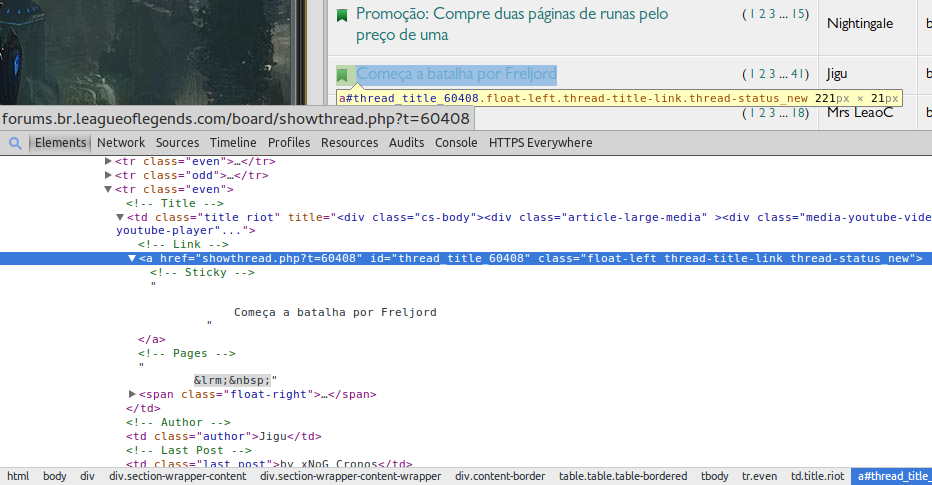
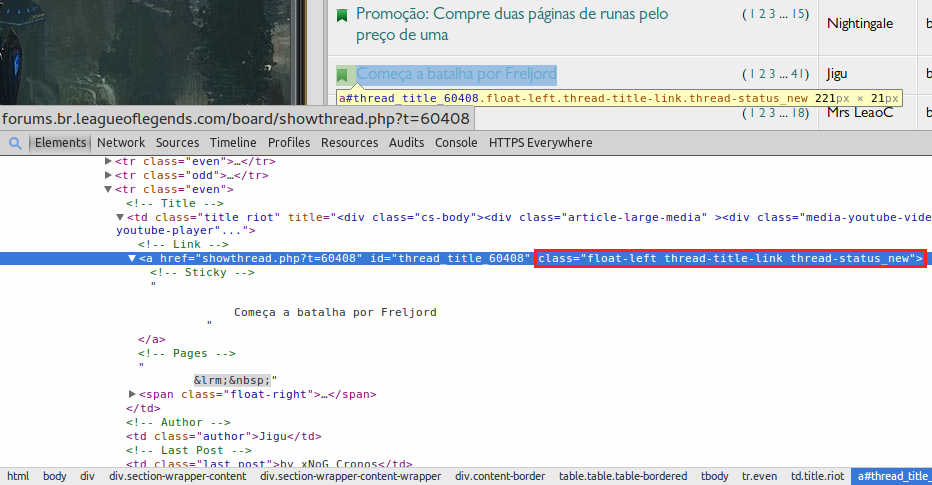
incluídas novas seções

Changed region(s): [[0.5601, 0.4948, 0.9957, 0.5567]]

diff --git a/jsoup/index.html b/jsoup/index.html
@@ -954,7 +954,7 @@ http://www.gnu.org/software/src-highlite -->
 </td>
 <td class="content">
 <div class="title">O que é parsing?</div>
-<div class="paragraph"><p>Fazer o <em>parsing</em> de um documento significa analisá-lo de forma que seja possível extrair informações sintáticas do mesmo. Por exemplo, após fazer o <em>parsing</em> de um documento HTML, podemos facilmente obter o conteúdo da tag <span class="monospaced">body</span> do documento, pois o <em>parsing</em> já analisado e separados os componentes do arquivo.</p></div>
+<div class="paragraph"><p>Fazer o <em>parsing</em> de um documento significa analisá-lo de forma que seja possível extrair informações sintáticas do mesmo. Por exemplo, após fazer o <em>parsing</em> de um documento HTML, podemos facilmente obter o conteúdo da tag <span class="monospaced">body</span> do documento, pois o <em>parsing</em> já analisou e separou os componentes do arquivo.</p></div>
 <div class="paragraph"><p><em>Parsear</em> um documento HTML é uma tarefa bem complicadinha, pois além de existirem muitas variações possíveis sobre a organização do documento, também existem muitos documentos HTML com estruturas inválidas por aí. Os navegadores web acabam renderizando esses documentos sem problemas, mas fazer uma análise sintática do conteúdo não é tão simples assim. Por isso que, ao invés de criarmos nossos próprios mecanismos de análise usando os métodos da classe String, vamos utilizar a biblioteca Jsoup, que faz todo o trabalho "sujo" pra gente.</p></div>
 </td>
 </tr></table>
@@ -1014,6 +1014,8 @@ http://www.gnu.org/software/src-highlite -->
 <pre>Comunidade League of Legends</pre>
 </div></div>
 <div class="paragraph"><p>Legal, não? Agora tente imprimir o conteúdo da tag <strong>body</strong> do fórum do LOL.</p></div>
+<div class="sect4">
+<h5 id="_acessando_elementos_específicos">Acessando elementos específicos</h5>
 <div class="paragraph"><p>Além dos elementos estruturais mais comuns, também podemos acessar os demais elementos da página. Usaremos o método <span class="monospaced">select()</span> do objeto <span class="monospaced">Document</span> retornado pelo <span class="monospaced">get()</span> para obter elementos individuais da página baixada, como por exemplo um link, uma imagem, uma célula de uma tabela, etc.</p></div>
 <div class="paragraph"><p>Por exemplo, para obter todas as imagens que aparecem na listagem de tópicos no fórum do LOL, podemos fazer o seguinte:</p></div>
 <div class="listingblock">
@@ -1046,20 +1048,27 @@ http://www.gnu.org/software/src-highlite -->
 &lt;img src="lol_theme/img/staff_post_icon.gif" alt="Riot Post" /&gt;
 ...</pre>
 </div></div>
-<div class="paragraph"><p>Se quisermos obter todos os links de uma determinada página, vamos utilizar o <span class="monospaced">select</span>, mas dessa vez passando uma informação adicional. Um link em HTML é composto por uma tag <strong>a</strong> contendo um atributo <strong>href</strong> com o valor da URL. Veja um exemplo de um link:</p></div>
+</div>
+<div class="sect4">
+<h5 id="_filtrando_elementos_por_atributos_da_tag">Filtrando elementos por atributos da tag</h5>
+<div class="paragraph"><p>Se quisermos obter todos os links de uma determinada página, vamos utilizar o método <span class="monospaced">select()</span> novamente, mas dessa vez passando uma informação adicional. Um link em HTML é composto por uma tag <strong>a</strong> contendo um atributo <strong>href</strong> com o valor da URL. Veja um exemplo de um link:</p></div>
 <div class="literalblock">
 <div class="content monospaced">
 <pre>&lt;a href="http://www.google.com.br"&gt; texto do link &lt;/a&gt;</pre>
 </div></div>
-<div class="paragraph"><p>Assim, para obter todas as tags <strong>a</strong> que contenham um atributo <strong>href</strong>, vamos passar ao <span class="monospaced">select</span> o nome da tag com o nome do atributo entre colchetes:</p></div>
+<div class="paragraph"><p>Assim, para obter todas as tags <strong>a</strong> que contenham um atributo <strong>href</strong>, podemos passar ao <span class="monospaced">select()</span> <strong>o nome da tag com o nome do atributo entre colchetes</strong>:</p></div>
 <div class="literalblock">
 <div class="content monospaced">
 <pre>Elements elements = doc.select("a[href]");</pre>
 </div></div>
-<div class="paragraph"><p>Muitas vezes, o desenvolvedor da página utiliza classes CSS para classificar os elementos da sua página. Quem desenvolveu o fórum do LOL, <strong>marcou</strong> todos os títulos das páginas com a classe CSS <span class="monospaced">thread-title-link</span>. Veja na imagem abaixo:</p></div>
+<div class="paragraph"><p>Portanto, para obter os elementos do HTML que possuem determinado atributo, basta passar <span class="monospaced">nome da tag[nome do atributo]</span> ao método <span class="monospaced">select()</span>.</p></div>
+</div>
+<div class="sect4">
+<h5 id="_filtrando_elementos_pela_classe_css">Filtrando elementos pela classe CSS</h5>
+<div class="paragraph"><p>Muitas vezes, o desenvolvedor da página utiliza classes CSS para classificar os elementos do seu layout. Quem desenvolveu o fórum do LOL, <strong>marcou</strong> todos os títulos das páginas com a classe CSS <span class="monospaced">thread-title-link</span>. Ou seja, dentro do HTML da página, todos os elementos que representam títulos de posts no fórum são tags <strong>a</strong> contendo <span class="monospaced">"thread-title-link"</span> como valor do atributo <span class="monospaced">class</span>. Veja na imagem abaixo:</p></div>
 <div class="imageblock">
 <div class="content">
-<img src="images/img/4.png" alt="images/img/4.png" width="500">
+<img src="images/img/4.png" alt="images/img/4.png" width="700">
 </div>
 </div>
 <div class="paragraph"><p>Para obter os elementos de uma <strong>tag</strong> marcada com uma classe CSS, podemos continuar usando o método <span class="monospaced">select()</span>, mas agora passando o nome da <strong>tag</strong> e o nome da classe CSS em questão, unidos por um ponto:</p></div>
@@ -1069,6 +1078,15 @@ by Lorenzo Bettini
 http://www.lorenzobettini.it
 http://www.gnu.org/software/src-highlite -->
 <pre><tt>        <span style="color: #008080">Elements</span> e <span style="color: #990000">=</span> doc<span style="color: #990000">.</span><span style="font-weight: bold"><span style="color: #000000">select</span></span><span style="color: #990000">(</span><span style="color: #FF0000">"a.thread-title-link"</span><span style="color: #990000">)</span></tt></pre></div></div>
+<div class="paragraph"><p>Portanto, para obter os elementos que foram declarados com determinada classe CSS, podemos passar o nome da classe logo após o ponto. Por exemplo: <span class="monospaced">div.codigo</span>, que representa todas os elementos do tipo <span class="monospaced">div</span>, que possuam <span class="monospaced">codigo</span> como classe, como o <span class="monospaced">div</span> apresentado abaixo:</p></div>
+<div class="literalblock">
+<div class="content monospaced">
+<pre>&lt;div class="codigo"&gt;
+        algum conteúdo qualquer
+        aqui
+&lt;/div&gt;</pre>
+</div></div>
+</div>
 </div>
 <div class="sect3">
 <h4 id="_obtendo_os_títulos_do_fórum_do_lol">3.2.3. Obtendo os títulos do Fórum do LOL</h4>
@@ -1125,7 +1143,7 @@ Revelamos Zac, a Arma Secreta
 <div id="footnotes"><hr></div>
 <div id="footer">
 <div id="footer-text">
-Última atualização 2014-04-28 21:25:57 BRT
+Última atualização 2014-04-29 23:25:25 BRT
 </div>
 </div>
 </body>
